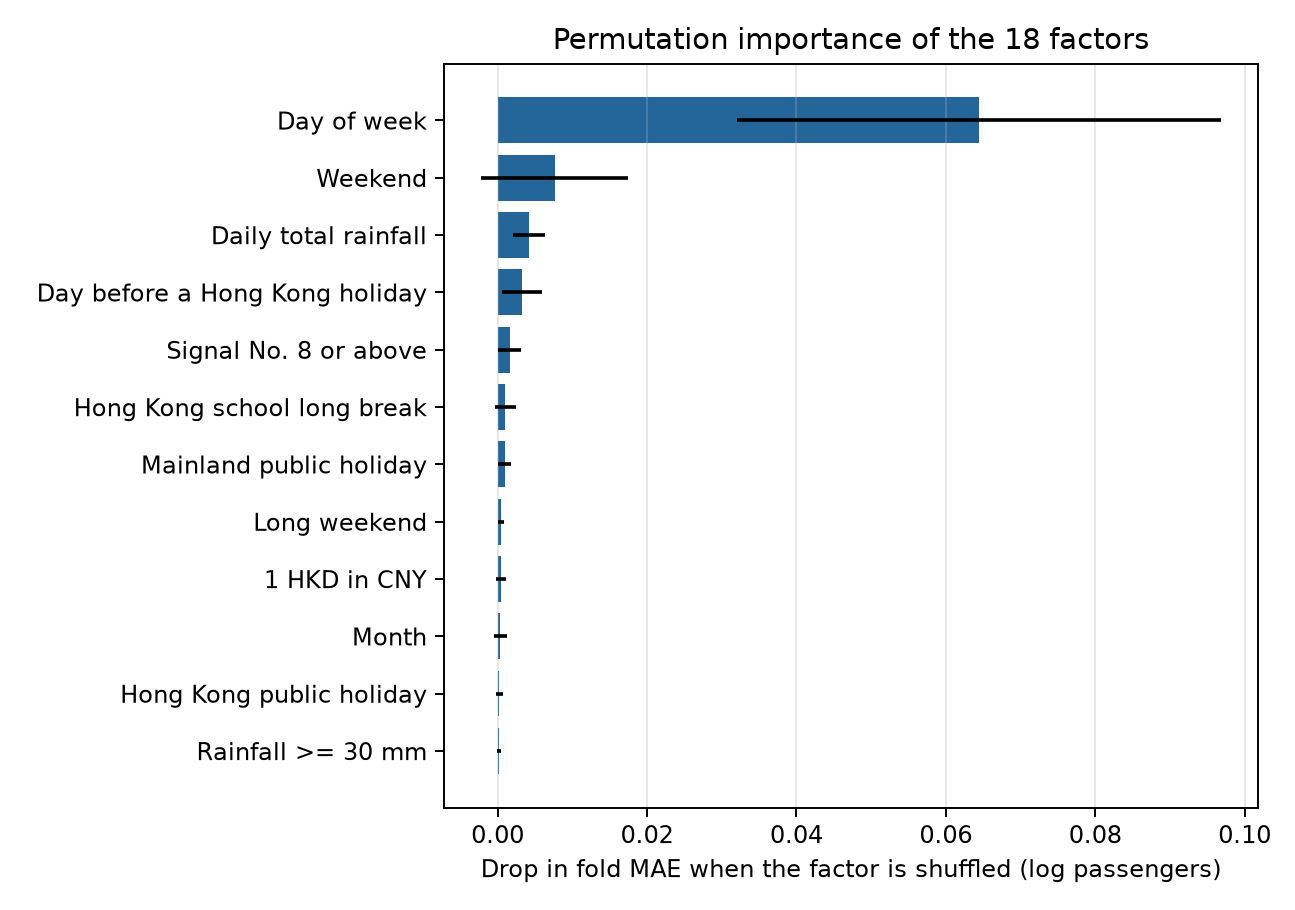
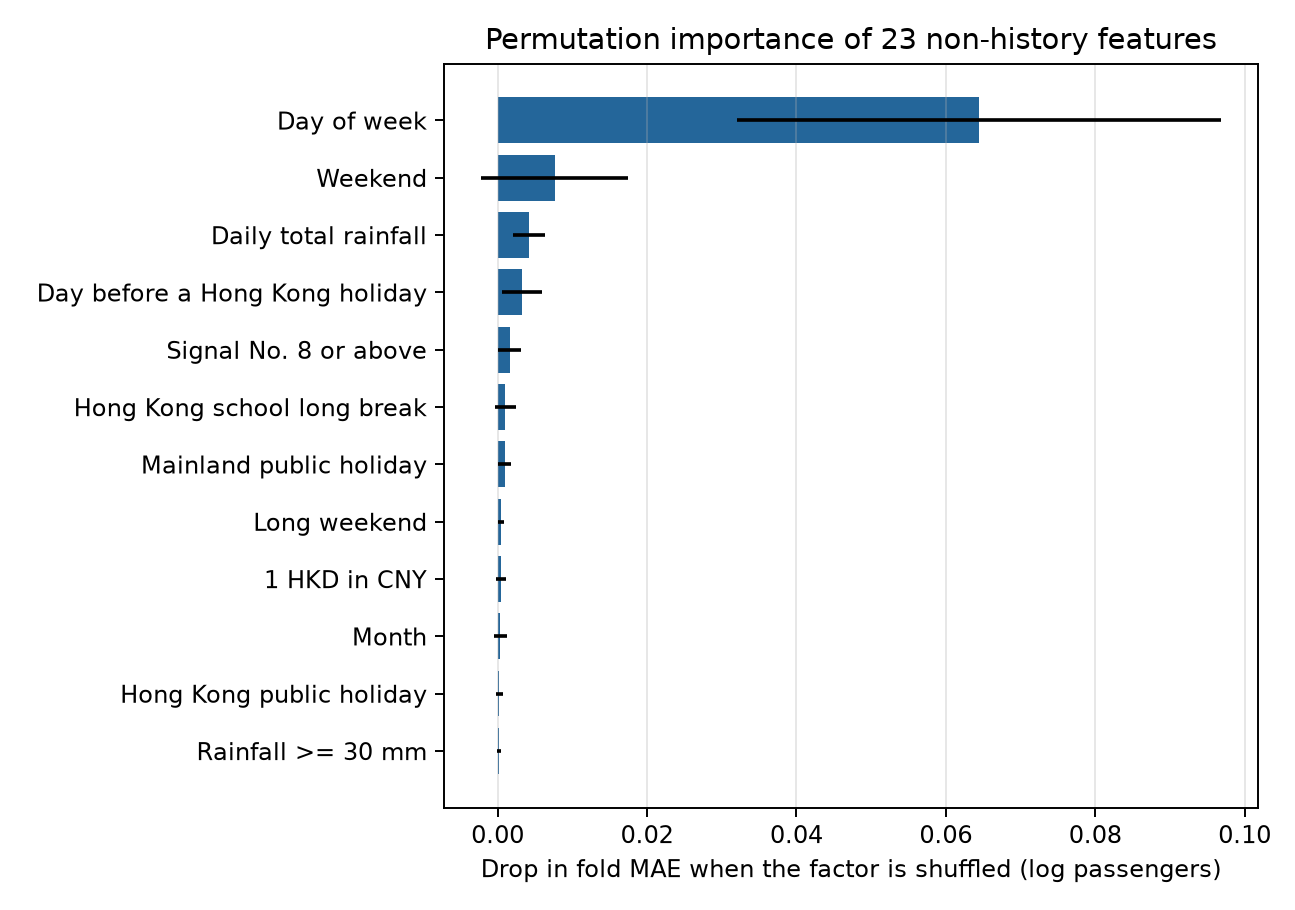
final result

Changed region(s): [[0.3707, 0.0308, 0.9575, 0.0615]]

diff --git a/src/stats_analysis.py b/src/stats_analysis.py
@@ -29,6 +29,8 @@ import pandas as pd
 import statsmodels.api as sm
 from statsmodels.stats.outliers_influence import variance_inflation_factor
 
+from .config import END_DATE, START_DATE
+
 ROOT = Path(__file__).resolve().parents[1]
 PROCESSED = ROOT / "data" / "processed"
 RESULTS = ROOT / "results" / "member_e"
@@ -132,8 +134,25 @@ def vif_table(frame):
 
 
 def fit_ols(y, frame):
-    """OLS with Newey-West standard errors, dropping perfectly collinear columns."""
+    """OLS with HAC errors and an identifiable design matrix.
+
+    Within a subsample, a policy flag or month dummy can become an exact
+    combination of other regressors. Keep columns in their declared order and
+    remove only columns that add no rank after the intercept and earlier terms.
+    """
     frame, _ = drop_constant(frame)
+    basis = np.ones((len(frame), 1))
+    keep = []
+    for column in frame.columns:
+        values = frame[column].to_numpy(dtype=float)
+        residual = values - basis @ np.linalg.lstsq(basis, values, rcond=None)[0]
+        if np.linalg.norm(residual) > 1e-10 * max(1.0, np.linalg.norm(values)):
+            basis = np.column_stack([basis, values])
+            keep.append(column)
+    dropped = [column for column in frame.columns if column not in keep]
+    if dropped:
+        print(f"  dropped collinear column(s): {', '.join(dropped)}")
+    frame = frame[keep]
     model = sm.OLS(y, sm.add_constant(frame, has_constant="add"))
     return model.fit(cov_type="HAC", cov_kwds={"maxlags": HAC_MAXLAGS})
 
@@ -194,9 +213,82 @@ def save(table, filename):
     return path
 
 
+def robustness():
+    """Exchange-rate coefficient under three trend specifications.
+
+    The main model keeps a linear time trend. Removing it, or adding a squared
+    term, shows whether the exchange-rate sign survives a different trend
+    control. It does not, which is why H1 is reported as not robust.
+    """
+    data = load_master()
+    y, x = build_design(data, month_dummies=True, school_breaks=False)
+    variants = {
+        "main": x,
+        "without_time_trend": x.drop(columns="time_index"),
+        "quadratic_time_trend": x.assign(time_index_sq=(data["time_index"] / 365.25) ** 2),
+    }
+    rows = []
+    for name, frame in variants.items():
+        result = fit_ols(y, frame)
+        vif = vif_table(frame)
+        for term in ["hkd_cny", "time_index", "time_index_sq"]:
+            if term in result.params.index:
+                rows.append({
+                    "specification": name,
+                    "term": term,
+                    "coef": result.params[term],
+                    "hac_se": result.bse[term],
+                    "p_value": result.pvalues[term],
+                    "vif": float(vif.loc[vif["term"].eq(term), "vif"].iloc[0]),
+                    "n": int(result.nobs),
+                    "r_squared": result.rsquared,
+                })
+    return pd.DataFrame(rows)
+
+
+def check_sample(data):
+    """Layer 2: the frozen sample must contain the whole design period once."""
+    expected_days = (END_DATE - START_DATE).days + 1
+    assert len(data) == expected_days, (len(data), expected_days)
+    assert data["Date"].is_monotonic_increasing
+    assert data["Date"].diff().dropna().eq(pd.Timedelta(days=1)).all()
+    assert data["Northbound_Passengers"].gt(0).all()
+    assert data["hkd_cny"].between(0.8, 1.0).all()
+    assert data["tmax_c"].between(0, 40).all()
+    assert data["rainfall_mm"].ge(0).all()
+
+
+def check_fit():
+    """Layer 1: hand-written rows whose answers are computed by hand.
+
+    Weekend passengers are exactly twice the weekday level, so the dummy
+    coefficient must equal ln(2) = 0.693147. In percentage terms that is
+    exp(ln 2) - 1 = 100%.
+    """
+    sample = pd.DataFrame({
+        "is_weekend": [0.0, 0.0, 1.0, 1.0],
+        "Northbound_Passengers": [50.0, 50.0, 100.0, 100.0],
+    })
+    y = np.log(sample["Northbound_Passengers"])
+
+    result = fit_ols(y, sample[["is_weekend"]])
+    assert np.isclose(result.params["is_weekend"], np.log(2), atol=1e-12), result.params
+
+    table = coefficient_table(result)
+    effect = table.loc[table["term"].eq("is_weekend"), "pct_effect"].iloc[0]
+    assert round(effect, 6) == 100.0, effect
+
+    # A column that never changes carries no information and must be dropped.
+    sample["always_one"] = 1.0
+    reduced = fit_ols(y, sample[["is_weekend", "always_one"]])
+    assert "always_one" not in reduced.params.index
+    assert np.isclose(reduced.params["is_weekend"], np.log(2), atol=1e-12)
+
+
 def run_analysis():
     """Estimate every specification and write the result tables."""
     data = load_master()
+    check_sample(data)
     print(f"  sample: {len(data):,} days, {data['Date'].min():%Y-%m-%d} to {data['Date'].max():%Y-%m-%d}")
 
     means = data[CONTINUOUS].mean().to_dict()
@@ -208,6 +300,7 @@ def run_analysis():
     main_table = coefficient_table(main_result, means)
     save(main_table, "regression_main.csv")
     save(vif_table(x_main), "vif_main.csv")
+    save(robustness(), "regression_robustness.csv")
 
     print("school-break specification")
     school_result = fit_ols(y_school, x_school)
@@ -241,7 +334,7 @@ def run_analysis():
     rows.insert(0, model_summary("main", main_result, main_table))
     rows.insert(1, model_summary("school_break", school_result, school_table))
     rows.append(model_summary("interaction", interaction_result, interaction_table))
-    save(pd.DataFrame(rows), "model_comparison.csv")
+    save(pd.DataFrame(rows), "regression_model_comparison.csv")
 
     print("\nTop coefficients in the main specification (p < 0.05)")
     shown = main_table[main_table["significant_5pct"] & main_table["term"].ne("const")].copy()
@@ -263,4 +356,5 @@ def run_analysis():
 
 
 if __name__ == "__main__":
+    check_fit()
     run_analysis()

diff --git a/src/ml_model.py b/src/ml_model.py
@@ -7,12 +7,11 @@ side by side rather than one replacing the other.
 
 Two feature sets are trained:
 
-  with_history  the 18 factors plus the same weekday last week and the average
-                of the previous seven days. This is the only fair way to compare
-                against the naive baseline, which already knows the recent past.
-  factors_only  the 18 factors alone. This is the set that ranks the factors the
-                design asks about. It keeps the time trend, so it can still beat
-                the baseline even without recent passenger counts.
+  with_history  the 18 core factors, three school-break flags, month and weekday,
+                plus same-weekday-last-week and previous-seven-day mean passenger
+                counts. This allows comparison with a baseline using recent history.
+  factors_only  the 23 non-history features. It keeps the time trend and calendar
+                variables, so it can beat the baseline without recent counts.
 
 Everything is scored with TimeSeriesSplit, so a model is always tested on days
 after the ones it learned from.
@@ -61,6 +60,14 @@ TERMS.update({
 })
 
 
+def add_history(passengers):
+    """Two lag features that only look backwards, so no future value leaks in."""
+    return pd.DataFrame({
+        "passengers_lag7": passengers.shift(LAG_DAYS),
+        "passengers_mean7": passengers.shift(1).rolling(7).mean(),
+    })
+
+
 def load_data():
     """Return the feature frames, the log target and the raw target.
 
@@ -76,11 +83,7 @@ def load_data():
     factors = factors.astype(float)
 
     passengers = data[TARGET].astype(float)
-    history = pd.DataFrame({
-        "passengers_lag7": passengers.shift(LAG_DAYS),
-        "passengers_mean7": passengers.shift(1).rolling(7).mean(),
-    })
-    combined = pd.concat([factors, history], axis=1)
+    combined = pd.concat([factors, add_history(passengers)], axis=1)
 
     keep = combined.notna().all(axis=1).to_numpy()
     raw_target = passengers[keep].reset_index(drop=True)
@@ -91,6 +94,32 @@ def load_data():
         np.log(raw_target),
         raw_target,
     )
+
+
+def check_history():
+    """Layer 1: hand-written ten-day series with answers computed by hand.
+
+    Values 10, 20, ..., 100 are 10 apart. The seven-day mean ending the day
+    before position 7 is (10 + ... + 70) / 7 = 40, and the value one week back
+    is the first one, 10.
+    """
+    series = pd.Series([10.0 * day for day in range(1, 11)])
+    history = add_history(series)
+    assert history["passengers_lag7"].iloc[7] == 10.0
+    assert np.isnan(history["passengers_lag7"].iloc[6])
+    assert history["passengers_mean7"].iloc[7] == 40.0
+
+    # TimeSeriesSplit must never test on a day it already trained on.
+    for train_index, test_index in TimeSeriesSplit(n_splits=3).split(np.arange(20)):
+        assert train_index.max() < test_index.min()
+
+
+def check_sample(factors, raw_target):
+    """Layer 2: the frozen table loses exactly the seven warm-up days."""
+    assert len(factors) == 1_364 - LAG_DAYS, len(factors)
+    assert factors.notna().all().all()
+    assert raw_target.gt(0).all()
+    assert factors["hkd_cny"].between(0.8, 1.0).all()
 
 
 def build_models():
@@ -160,7 +189,7 @@ def plot_importance(table, path):
     fig, ax = plt.subplots(figsize=(7.4, 5.2))
     ax.barh(top["label"], top["importance_mean"], xerr=top["importance_std"], color="#24669a")
     ax.set_xlabel("Drop in fold MAE when the factor is shuffled (log passengers)")
-    ax.set_title("Permutation importance of the 18 factors")
+    ax.set_title("Permutation importance of 23 non-history features")
     ax.grid(axis="x", alpha=0.3)
     fig.tight_layout()
     fig.savefig(path, dpi=175, facecolor="white")
@@ -192,6 +221,7 @@ def save(table, filename):
 def run_models():
     """Train both learners on both feature sets, score them and rank the factors."""
     data, factors, combined, log_target, raw_target = load_data()
+    check_sample(factors, raw_target)
     frames = {"with_history": combined, "factors_only": factors}
     print(f"  sample: {len(factors):,} days x {len(FACTORS)} factors "
           f"({len(HISTORY)} history features added in the comparative set)")
@@ -217,4 +247,5 @@ def run_models():
 
 
 if __name__ == "__main__":
+    check_history()
     run_models()

diff --git a/main.py b/main.py
@@ -11,9 +11,7 @@ Only the plain file downloads live here. Frankfurter, FRED, Yahoo Finance and
 the 1823 holiday JSON are fetched by notebooks 02 and 03, which need API keys or
 extra parsing; run those notebooks first if their outputs are missing.
 
-The analyze stage expects `src.stats_analysis.run_analysis()` and
-`src.ml_model.run_models()`. A module that is not written yet is reported and
-skipped, so the rest of the pipeline still runs.
+The analyze stage runs the regression and machine-learning modules.
 
 Stage order matters: clean writes the raw passenger and port tables, merge
 enriches the port table in place, and eda only reads the merged results.

diff --git a/docs/final_results.md b/docs/final_results.md
@@ -1,0 +1,49 @@
+# 最终结果与汇报口径（成员 E）
+
+样本：2023-02-06 至 2026-10-31，日频 1,364 条。客流量取对数；日频回归为 OLS + Newey-West（HAC，maxlags=7）。所有结论只描述相关关系，不作因果解释。
+
+假设编号与方向依据设计 PDF 第二节（H1 汇率、H2 周末与香港假期、H3 香港学校长假、H4 内地假期与深圳校历、H5 天气、H6 港车北上与口岸份额、H7 月度零售）。其中 H6 与 H7 的正式交付分别属于成员 A 与成员 B，本表只记录 E 的临时核对结果供组会讨论。
+
+## H1–H7 证据表
+
+| 编号 | 设计 PDF 的假设与预期方向 | 主要结果 | 结论 |
+|---|---|---|---|
+| H1 | 人民币相对港币越便宜，港人北上越多（正相关） | 主规格 β=3.160（HAC p<.001，弹性约 +2.87%/1%）；删除时间趋势后 β=-1.682（p<.001）；加二次趋势 β=1.168（p=.121） | **未获稳健支持**，方向随趋势规格翻转，不能报告为“汇率上升带来客流增加” |
+| H2 | 周末、香港公众假期、长周末的北上人次高于平日（正相关） | 周末 +33.8%、香港公众假期 +31.5%、假期前一日 +39.3%（均 p<.001）；长周末仅 +2.3%（p=.56） | **部分支持**：周末与假期成立，长周末不显著 |
+| H3 | 香港学校放长假时北上更高，短假效果较小（正相关） | 学校长假规格中香港学校长假 +5.9%（p=.031）；香港学校短假字段在冻结样本中全为 0 | **部分支持**：长假方向成立但幅度小；短假无法检验 |
+| H4 | 内地黄金周、深圳学校放假时港人北上减少（负相关） | 内地公众假期 -15.8%（假期规格，p<.001）；深圳寒假 -1.2%（p=.66）、暑假 -2.8%（p=.34） | **部分支持**：内地假期负相关成立；深圳校历变量不显著 |
+| H5 | 下雨、高温、8 号风球或黑雨当日北上下降（负相关） | 8 号或以上风球 -57.9%（p<.001）；雨量每毫米 -0.19%（p=.016）；最高温、红黑雨、重雨不显著 | **部分支持**，与 D 的单因素结果方向一致 |
+| H6 | 港车北上实施后，港珠澳大桥口岸港人份额上升（正相关） | 临时核对：港珠澳大桥份额 -0.96 个百分点（p=.003），罗湖 -1.25pp；正式结果以成员 A 的口岸份额模块为准 | **待 A 确认**；临时结果方向与预期相反，且政策虚拟变量与时间趋势重叠，不能作因果解释 |
+| H7 | 月度北上人次越多，香港零售业销货价值越低（负相关） | 临时核对：完整月度配对 43 个月，同月 r=-.097（p=.536）；正式结果以成员 B 的月度零售延伸为准 | **待 B 确认**；临时结果未获支持 |
+
+## 补充分析：机器学习
+
+5 折时间序列验证下，梯度提升 + 历史客流 MAE 33,708（比上周同星期基准低 10.4%），随机森林 + 历史客流低 7.4%；只用 18 个因素时，梯度提升低 9.1%，随机森林反而高 1.1%。置换重要性前五：星期几（0.064）、周末（0.0076）、日雨量（0.0042）、假期前一日（0.0032）、8 号风球（0.0016）。预测力不等于解释效应，置换重要性也不指示方向。
+
+注意：星期几与周末高度冗余，置换重要性把分数几乎全给更细的星期几，因此周末的 0.0076 不能读成“周末不重要”；日历周期合计约 0.072，是模型最重要的信息。
+
+## 回归与稳健性要点
+
+- 主规格 R²=0.695，n=1,364。R² 是样本拟合度，不是预测精度。
+- 主规格中时间趋势 VIF=17.57（因与汇率、政策虚拟变量共同移动）；换用无趋势或二次趋势规格时，汇率系数不稳定，因此 H1 只能写“未获稳健支持”。三套规格的汇率系数见 `results/member_e/regression_robustness.csv`。
+- 二次趋势与线性趋势的 VIF 分别约 111.2 与 69.5，二次趋势规格本身也严重共线，不能当作“正确模型”。稳健性结果的用途是显示结论敏感，而不是择一宣称正确。
+- 学校假期规格保留深圳寒暑假与香港长假；深圳春秋假、香港短假字段在冻结样本中为常数，回归自动剔除。ML 使用 23 个非历史特征：18 个核心因素、3 个可用学校假期标记、月份与星期。
+- VIF 只针对主规格；交互、子样本与学校假期规格没有各自的 VIF 汇总，不要暗示所有规格都通过了共线性检查。
+- 分样本会自动剔除常数项与完全共线列；A 窗口中 6 月、12 月虚拟变量与其余控制完全共线，故不单独估计，系数表只含可识别参数。
+
+## 汇报建议
+
+1. 交代方法与口径：对数客流 OLS + HAC，控制日历、天气、市场与趋势；机器学习用时间序列交叉验证，与“上周同星期”基准比较。
+2. 先报稳健结论：H2 周末/香港假期/假期前一日偏高、内地假期偏低；H5 强台风显著压低客流；ML 含历史客流时优于基准。
+3. 主动说明限制：H1 汇率对趋势规格敏感；H6 与 H7 的正式数值由 A、B 交付；所有结果均不支持因果措辞。
+4. 每条假设用“支持 / 部分支持 / 未获支持 / 方向相反”四档表述，把“没有显著证据”与“证明没有效应”分开。
+
+## 复现
+
+```bash
+python main.py analyze          # 回归 + 机器学习，写出 results/member_e/ 下的全部 CSV
+python -m src.stats_analysis    # 只跑回归（含手算检查与稳健性表）
+python -m src.ml_model          # 只跑机器学习与两张图
+```
+
+三层检查：`stats_analysis.check_fit()` 与 `ml_model.check_history()` 是手算样例；两个模块的 `check_sample()` 用冻结数据的行数、日期连续性与取值范围校验；肉眼核对为 2023-09-01 原始 CSV 与总表同为 26,311 人次。

diff --git a/README.md b/README.md
@@ -1,22 +1,29 @@
-# 港人北上出行多因素相关性分析
-主样本：2023-02-06 至 2026-10-31。原始数据放在 `data/raw/`，处理后的数据放在 `data/processed/`。
+# 港人北上出行的多因素相关性分析
 
-## 当前阶段
-- [x] 项目目录、依赖清单与密钥忽略规则
-- [x] 共用 HTTP 工具 `src/fetch_utils.py`
-- [ ] 全员建立虚拟环境并安装依赖
-- [ ] 各成员确认取数、清洗模块的输入输出格式
-- [ ] 全组在 2026-11-08 前完成数据冻结
+主样本为 2023-02-06 至 2026-10-31。分析单位为日；口岸表为日期 × 口岸。原始和处理数据分别放在 `data/raw/`、`data/processed/`。
 
-## 本地启动
+## 环境与运行
+
 ```bash
 python -m venv .venv
-source .venv/bin/activate
+source .venv/bin/activate  # Windows: .venv\\Scripts\\Activate.ps1
 python -m pip install -r requirements.txt
-python src/fetch_utils.py
+python main.py analyze
 ```
 
-Windows PowerShell 激活命令：`.venv\\Scripts\\Activate.ps1`。
+`analyze` 从已冻结的 `master_daily.csv` 生成多元回归（HAC 标准误、VIF、交互项、子样本、趋势稳健性）与机器学习结果，写入 `results/member_e/` 和 `figures/member_e/`。它不重新抓数、不改写冻结数据。完整重建流程为 `python main.py`。
 
-密钥只放在本地 `.env`，禁止提交；`.env` 已列入 `.gitignore`。项目当前没有创建 `.env`，也没有保存任何密钥。
+## 成员 E 的交付
+
+| 文件 | 作用 |
+|---|---|
+| `src/fetch_utils.py` | 全组共用的 `get_json` / `get_text`，超时 30 秒、失败等 2/4/6 秒重试、最终返回 `None` |
+| `src/stats_analysis.py` | 主规格、学校假期规格、交互项、子样本、VIF 与趋势稳健性 |
+| `src/ml_model.py` | 随机森林 / 梯度提升，时间序列交叉验证，置换重要性与部分依赖图 |
+| `main.py` | fetch → clean → merge → eda → analyze 一键流程 |
+| `docs/final_results.md` | H1–H7 结论表与汇报口径 |
+
+结果表在 `results/member_e/`：`regression_main`、`regression_school_break`、`regression_interaction`、`regression_subsamples`、`regression_model_comparison`、`regression_robustness`、`vif_main`、`model_comparison`、`feature_importance`；图在 `figures/member_e/`。
+
+口岸份额（H6）与月度零售（H7）分别由成员 A 与成员 B 负责，不在成员 E 的交付范围内。
 
